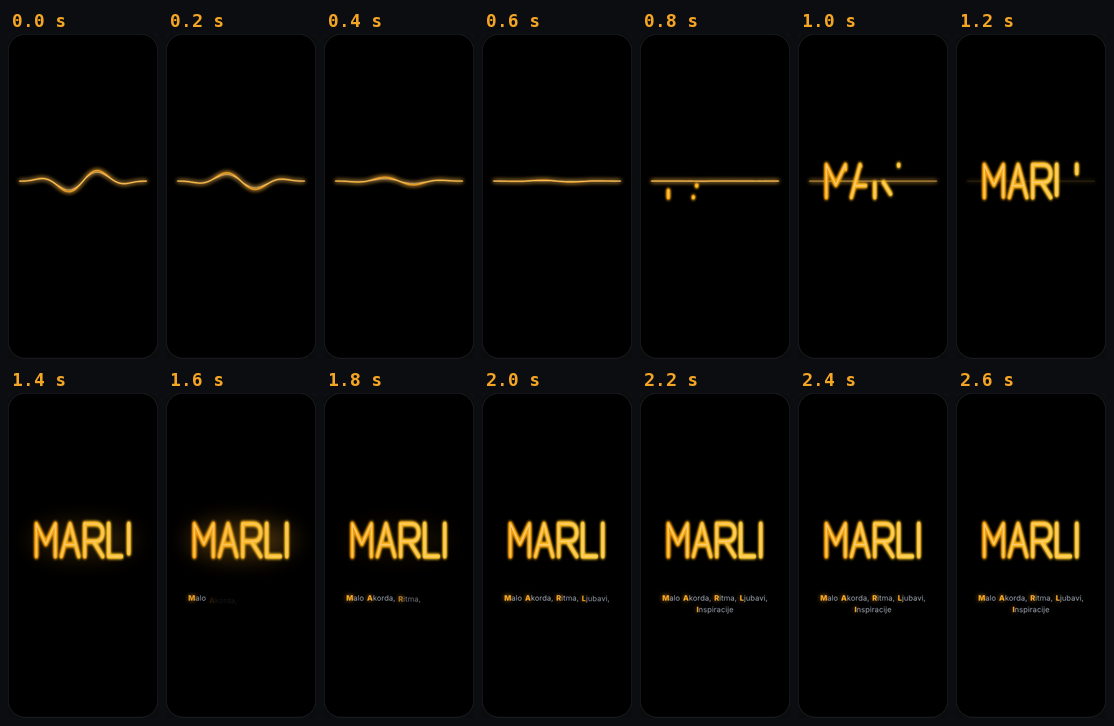
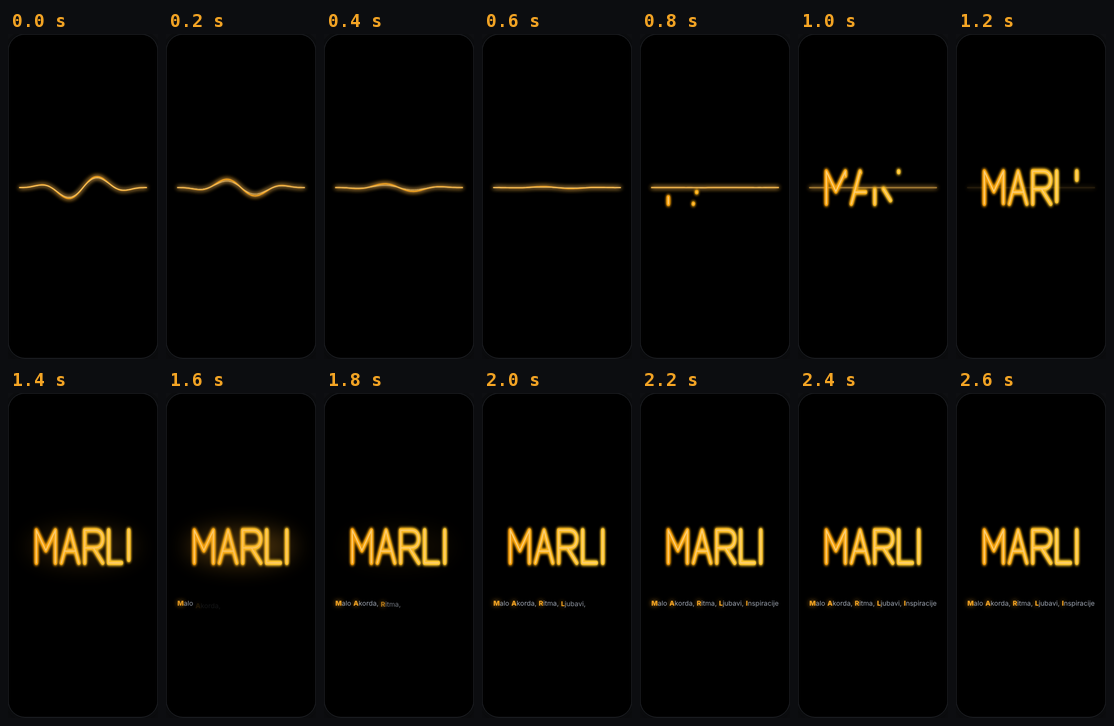
MARLI, faza 1: rečenica uvek u jednom redu; nove uvodne animacije 3 (Akord), 4 (Čivije, uz ikonicu B) i 5 (Ritam)
Claude-Session: https://claude.ai/code/session_01NDUSKUN97fWP9dPBbYtahr

diff --git a/docs/marli/index.html b/docs/marli/index.html
@@ -53,10 +53,10 @@
   .home-label { font-size: .75rem; color: var(--muted); margin-top: 6px; text-align: center; }
 
   /* ---- uvodna animacija ---- */
-  .phone { width: min(300px, 82vw); aspect-ratio: 9 / 19.5; margin: 0 auto; border-radius: 34px; background: #000; border: 1px solid #2a2d33; box-shadow: 0 0 0 6px #0b0c0e, 0 18px 40px rgba(0,0,0,.6); position: relative; overflow: hidden; }
+  .phone { container-type: inline-size; width: min(300px, 82vw); aspect-ratio: 9 / 19.5; margin: 0 auto; border-radius: 34px; background: #000; border: 1px solid #2a2d33; box-shadow: 0 0 0 6px #0b0c0e, 0 18px 40px rgba(0,0,0,.6); position: relative; overflow: hidden; }
   .phone .stage { position: absolute; inset: 0; display: flex; flex-direction: column; align-items: center; justify-content: center; gap: 14px; }
   .anim-card .row { display: flex; gap: 10px; justify-content: center; margin-top: 14px; flex-wrap: wrap; }
-  .words { display: flex; flex-wrap: wrap; justify-content: center; gap: 0 .38em; padding: 0 18px; font-size: 15px; color: var(--muted); letter-spacing: .01em; min-height: 46px; text-align: center; }
+  .words { display: flex; flex-wrap: nowrap; white-space: nowrap; justify-content: center; gap: 0 .32em; padding: 0; width: 100%; font-size: 4.55cqw; color: var(--muted); letter-spacing: 0; min-height: 1.6em; text-align: center; }
   .words span { opacity: 0; transform: translateY(6px); display: inline-block; }
   .words span i { font-style: normal; color: var(--accent); font-weight: 800; text-shadow: 0 0 10px rgba(245, 165, 36, .85); }
   .play .words span { animation: wordIn .32s cubic-bezier(.2, .8, .2, 1) forwards; }
@@ -93,6 +93,41 @@
   @keyframes shrink { to { transform: scaleX(.62); } }
   .play.a2 .okring { animation: okRing .7s ease-out .82s both; }
   @keyframes okRing { 0% { opacity: 0; r: 6; } 25% { opacity: .9; } 100% { opacity: 0; r: 120; } }
+
+  /* animacija 3: akord — šest žica, skupe se u jednu, slova iskaču */
+  .a3 .strs path { transform-box: fill-box; transform-origin: center; }
+  .play.a3 .strs { animation: strsTo .5s cubic-bezier(.6, 0, .3, 1) 1s forwards; }
+  @keyframes strsTo { to { transform: translateY(var(--dy, 0)) ; opacity: 0; } }
+  .play.a3 .strs path { animation: lineGather .5s cubic-bezier(.6, 0, .3, 1) 1s forwards; }
+  @keyframes lineGather { to { transform: translateY(var(--to)); } }
+  .a3 .base { opacity: 0; }
+  .play.a3 .base { animation: fadeIn .2s linear 1.38s forwards; }
+  .a3 .ltr, .a5 .ltr { opacity: 0; transform-box: fill-box; transform-origin: 50% 100%; }
+  .play.a3 .ltr { animation: pop .38s cubic-bezier(.2, 1.4, .4, 1) forwards; }
+  @keyframes pop { 0% { opacity: 0; transform: translateY(26px) scale(.6); } 60% { opacity: 1; } to { opacity: 1; transform: none; } }
+  @keyframes fadeIn { to { opacity: 1; } }
+
+  /* animacija 4: čivije (ikonica B) */
+  .a4 .hs { stroke-dasharray: 1; stroke-dashoffset: 1; }
+  .play.a4 .hs { animation: draw .45s ease-out forwards; }
+  .a4 .peg { fill: #2a2d33; }
+  .play.a4 .peg { animation: pegOn .32s ease-out forwards; }
+  @keyframes pegOn { 0% { fill: #2a2d33; } 35% { fill: #3dd68c; } to { fill: #f5a524; } }
+  .a4 .str { opacity: .15; }
+  .play.a4 .str { animation: strOn .3s ease-out forwards; }
+  @keyframes strOn { to { opacity: 1; } }
+  .a4 .nm { opacity: 0; transform: translateY(18px); }
+  .play.a4 .nm { animation: rise .55s cubic-bezier(.2, .9, .25, 1.1) 1.15s forwards; }
+
+  /* animacija 5: ritam */
+  .a5 .bar { transform-box: fill-box; transform-origin: 50% 100%; transform: scaleY(.15); }
+  .play.a5 .bar { animation: beat 1.4s linear forwards; }
+  @keyframes beat { 0% { transform: scaleY(.15); } 6% { transform: scaleY(var(--h)); } 22% { transform: scaleY(.35); } 28% { transform: scaleY(var(--h)); } 44% { transform: scaleY(.35); } 50% { transform: scaleY(var(--h)); } 66% { transform: scaleY(.35); } 72% { transform: scaleY(var(--h)); } 100% { transform: scaleY(calc(var(--h) * .45)); } }
+  .play.a5 .ltr { animation: drop .32s cubic-bezier(.3, 1.5, .5, 1) forwards; }
+  @keyframes drop { 0% { opacity: 0; transform: translateY(-40px); } 50% { opacity: 1; } to { opacity: 1; transform: none; } }
+  .a5 .hit { opacity: 0; }
+  .play.a5 .hit { animation: hit .35s ease-out forwards; }
+  @keyframes hit { 0% { opacity: .55; } to { opacity: 0; } }
   @media (prefers-reduced-motion: reduce) { .note-rm { display: block !important; } }
 
 .scrub { display: flex; align-items: center; gap: 10px; margin: 12px auto 0; width: min(300px, 82vw); }
@@ -157,6 +192,33 @@
       <div class="timeline"><b></b></div>
       <div class="row"><button class="btn primary" data-replay="2">↻ Pusti ponovo</button><button class="btn" data-slow="2">🐢 Usporeno 4×</button></div>
       <div class="scrub"><input type="range" min="0" max="2600" step="20" value="0" data-scrub="2" aria-label="Kadar po kadar"><output data-t="2">0,00 s</output></div>
+      <p class="muted small scrub-hint">Prevuci klizač: kadar po kadar.</p>
+    </div>
+    <div class="card anim-card">
+      <h3><span class="tag">3</span> Akord (šest žica)</h3>
+      <p class="muted small">Šest žica se odsvira odozgo nadole kao akord, sve zatrepere, pa se skupe u jednu liniju iz koje slovo po slovo iskoči MARLI. Zatim reč po reč.</p>
+      <div class="phone a3" id="ph3"></div>
+      <div class="timeline"><b></b></div>
+      <div class="row"><button class="btn primary" data-replay="3">↻ Pusti ponovo</button><button class="btn" data-slow="3">🐢 Usporeno 4×</button></div>
+      <div class="scrub"><input type="range" min="0" max="2600" step="20" value="0" data-scrub="3" aria-label="Kadar po kadar"><output data-t="3">0,00 s</output></div>
+      <p class="muted small scrub-hint">Prevuci klizač: kadar po kadar.</p>
+    </div>
+    <div class="card anim-card">
+      <h3><span class="tag">4</span> Čivije (uz ikonicu B)</h3>
+      <p class="muted small">Glava gitare iz ikonice B: čivije se jedna po jedna „uštimuju“ (kratko zeleno, pa zlatno), žice zasijaju, a ispod izraste MARLI — kao sama ikonica. Zatim reč po reč.</p>
+      <div class="phone a4" id="ph4"></div>
+      <div class="timeline"><b></b></div>
+      <div class="row"><button class="btn primary" data-replay="4">↻ Pusti ponovo</button><button class="btn" data-slow="4">🐢 Usporeno 4×</button></div>
+      <div class="scrub"><input type="range" min="0" max="2600" step="20" value="0" data-scrub="4" aria-label="Kadar po kadar"><output data-t="4">0,00 s</output></div>
+      <p class="muted small scrub-hint">Prevuci klizač: kadar po kadar.</p>
+    </div>
+    <div class="card anim-card">
+      <h3><span class="tag">5</span> Ritam</h3>
+      <p class="muted small">Stubići zvuka skaču u ritmu, a na svaki udarac pada po jedno slovo M · A · R · L · I. Stubići se smire ispod imena. Zatim reč po reč.</p>
+      <div class="phone a5" id="ph5"></div>
+      <div class="timeline"><b></b></div>
+      <div class="row"><button class="btn primary" data-replay="5">↻ Pusti ponovo</button><button class="btn" data-slow="5">🐢 Usporeno 4×</button></div>
+      <div class="scrub"><input type="range" min="0" max="2600" step="20" value="0" data-scrub="5" aria-label="Kadar po kadar"><output data-t="5">0,00 s</output></div>
       <p class="muted small scrub-hint">Prevuci klizač: kadar po kadar.</p>
     </div>
   </div>
@@ -392,10 +454,73 @@ function anim2() {
     ${WORDS}</div>`;
 }
 
+
+// reči sa sopstvenim početkom (--w0)
+const words = (w0) => WORDS.replace('--w0:1.45s', '--w0:' + w0 + 's');
+
+function anim3() {
+  const id = ++uid, g = 'g' + id;
+  const Y = [52, 64, 76, 88, 100, 112], BASE = 150;
+  const strs = Y.map((y, i) => {
+    const amp = 9 - i * 0.6, vals = [amp, -amp * .8, amp * .6, -amp * .45, amp * .3, -amp * .18, amp * .08, 0].map((a) => wavePath(24, 296, y, a, 2.5)).join(';');
+    return `<path d="M24,${y} L296,${y}" stroke="${GOLD}" stroke-width="${1.2 + (5 - i) * 0.35}" style="--to:${BASE - y}px">
+      <animate attributeName="d" begin="${(i * 0.07).toFixed(2)}s" dur="0.85s" fill="freeze" values="${vals}"/></path>`;
+  }).join('');
+  // slova MARLI (isti potez kao ikonica A, deblji) — svako iskače posebno
+  const L = LETTERS.map((d, i) => `<g class="ltr" style="animation-delay:${(1.12 + i * 0.07).toFixed(2)}s"><path d="${d}" filter="url(#${g})"/></g>`).join('');
+  return `<div class="stage">
+    <svg viewBox="0 0 320 200" width="100%" style="max-width:290px;overflow:visible" aria-label="MARLI">
+      <defs>${glowDefs(g, 4)}<linearGradient id="lg${id}" gradientUnits="userSpaceOnUse" x1="0" y1="0" x2="320" y2="0"><stop offset="0" stop-color="#f59e0b"/><stop offset=".6" stop-color="#ffcc33"/><stop offset="1" stop-color="#f59e0b"/></linearGradient></defs>
+      <g class="strs" fill="none" stroke-linecap="round" filter="url(#${g})">${strs.replace(/<path /g, '<path class="sl" ')}</g>
+      <line class="base" x1="24" y1="${BASE}" x2="296" y2="${BASE}" stroke="${GOLD}" stroke-width="2.4" filter="url(#${g})"/>
+      <g transform="translate(58 56) scale(.6 .82)" fill="none" stroke="url(#lg${id})" stroke-width="15" stroke-linecap="round" stroke-linejoin="round">${L}</g>
+    </svg>
+    ${words(1.55)}</div>`;
+}
+
+function anim4() {
+  const id = ++uid, g = 'g' + id;
+  const ys = [40, 72, 104], posts = [...ys.map((y) => [138, y]), ...ys.map((y) => [182, y])];
+  const order = [2, 1, 0, 3, 4, 5], nutX = [146, 151.5, 157, 163, 168.5, 174];
+  const pegT = (k) => (0.4 + k * 0.11).toFixed(2);
+  const pegs = [0, 1, 2, 3, 4, 5].map((k) => { const side = k < 3 ? 0 : 1, y = ys[k % 3], x = side ? 205 : 115; return `<ellipse class="peg" cx="${x}" cy="${y}" rx="11" ry="8.5" style="animation-delay:${pegT(k)}s"/>`; }).join('');
+  const strs = order.map((pi, i) => `<line class="str" x1="${posts[pi][0]}" y1="${posts[pi][1]}" x2="${nutX[i]}" y2="150" style="animation-delay:${pegT(pi)}s"/>`).join('');
+  return `<div class="stage">
+    <svg viewBox="0 0 320 250" width="100%" style="max-width:290px;overflow:visible" aria-label="MARLI">
+      <defs>${glowDefs(g, 4)}<linearGradient id="lg${id}" gradientUnits="userSpaceOnUse" x1="60" y1="0" x2="260" y2="0"><stop offset="0" stop-color="#f59e0b"/><stop offset=".6" stop-color="#ffcc33"/><stop offset="1" stop-color="#f59e0b"/></linearGradient></defs>
+      <path class="hs" pathLength="1" d="M141 154 L128 44 Q127 22 146 18 L174 18 Q193 22 192 44 L179 154 Z" fill="#181a1e" stroke="#3a3e46" stroke-width="2"/>
+      <g stroke="#6b5a3a" stroke-width="3.5" stroke-linecap="round">${ys.map((y) => `<line x1="122" y1="${y}" x2="138" y2="${y}"/><line x1="182" y1="${y}" x2="198" y2="${y}"/>`).join('')}</g>
+      <g stroke="${CORE}" stroke-width="1.6" filter="url(#${g})">${strs}</g>
+      <rect x="139" y="146" width="42" height="7" rx="2" fill="#e9e1cf" opacity=".9"/>
+      <g filter="url(#${g})">${pegs}</g>
+      <text class="nm" x="160" y="222" text-anchor="middle" font-family="system-ui, -apple-system, 'Segoe UI', Roboto, Arial, sans-serif" font-weight="900" font-size="56" letter-spacing="3" fill="url(#lg${id})" filter="url(#${g})">MARLI</text>
+    </svg>
+    ${words(1.6)}</div>`;
+}
+
+function anim5() {
+  const id = ++uid, g = 'g' + id;
+  const H = [.45, .7, 1, .8, .95, .6, .85, .5, .35];
+  const bars = H.map((h, i) => `<rect class="bar" x="${46 + i * 26}" y="120" width="16" height="60" rx="4" style="--h:${h}"/>`).join('');
+  // slova padaju na udarce (0,1 · 0,4 · 0,7 · 1,0 · 1,15 s)
+  const T = [0.12, 0.42, 0.72, 1.02, 1.18];
+  const L = LETTERS.map((d, i) => `<g class="ltr" style="animation-delay:${T[i]}s"><path d="${d}" filter="url(#${g})"/></g>`).join('');
+  const hits = T.slice(0, 4).map((t) => `<rect class="hit" x="0" y="0" width="320" height="200" fill="#f5a524" style="animation-delay:${t + 0.14}s;filter:blur(40px)"/>`).join('');
+  return `<div class="stage">
+    <svg viewBox="0 0 320 200" width="100%" style="max-width:290px;overflow:visible" aria-label="MARLI">
+      <defs>${glowDefs(g, 4)}<linearGradient id="lg${id}" gradientUnits="userSpaceOnUse" x1="0" y1="0" x2="320" y2="0"><stop offset="0" stop-color="#f59e0b"/><stop offset=".6" stop-color="#ffcc33"/><stop offset="1" stop-color="#f59e0b"/></linearGradient>
+        <linearGradient id="bar${id}" x1="0" y1="1" x2="0" y2="0"><stop offset="0" stop-color="#b45309"/><stop offset=".55" stop-color="#f59e0b"/><stop offset="1" stop-color="#ffcc33"/></linearGradient></defs>
+      <g opacity=".12">${hits}</g>
+      <g fill="url(#bar${id})" filter="url(#${g})">${bars}</g>
+      <g transform="translate(58 22) scale(.6 .8)" fill="none" stroke="url(#lg${id})" stroke-width="15" stroke-linecap="round" stroke-linejoin="round">${L}</g>
+    </svg>
+    ${words(1.5)}</div>`;
+}
+const ANIMS = { 1: () => anim1(), 2: () => anim2(), 3: anim3, 4: anim4, 5: anim5 };
 function play(n) {
   const ph = document.getElementById('ph' + n);
   ph.classList.remove('play');
-  ph.innerHTML = n === 1 ? anim1() : anim2();
+  ph.innerHTML = ANIMS[n]();
   const tl = ph.parentElement.querySelector('.timeline b'); tl.style.animation = 'none'; void tl.offsetWidth; tl.style.animation = '';
   void ph.offsetWidth;
   ph.classList.add('play');
@@ -428,7 +553,7 @@ document.querySelectorAll('[data-slow]').forEach((b) => b.addEventListener('clic
 }));
 // pusti kad se vidi na ekranu
 const io = new IntersectionObserver((es) => es.forEach((e) => { if (e.isIntersecting && !e.target.dataset.played) { e.target.dataset.played = '1'; play(+e.target.id.slice(2)); } }), { threshold: .5 });
-io.observe(document.getElementById('ph1')); io.observe(document.getElementById('ph2'));
+[1, 2, 3, 4, 5].forEach((n) => io.observe(document.getElementById('ph' + n)));
 document.querySelectorAll('.timeline').forEach((t) => { /* traka vremena prati .play */ });
 
 // O aplikaciji: ikonica po izboru; dodir na naslov/ikonicu = animacija 1 (primer)
